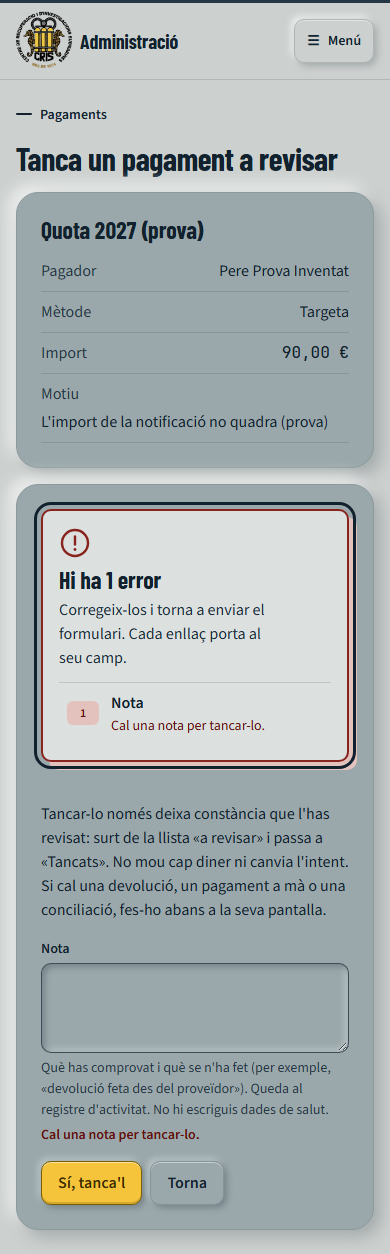
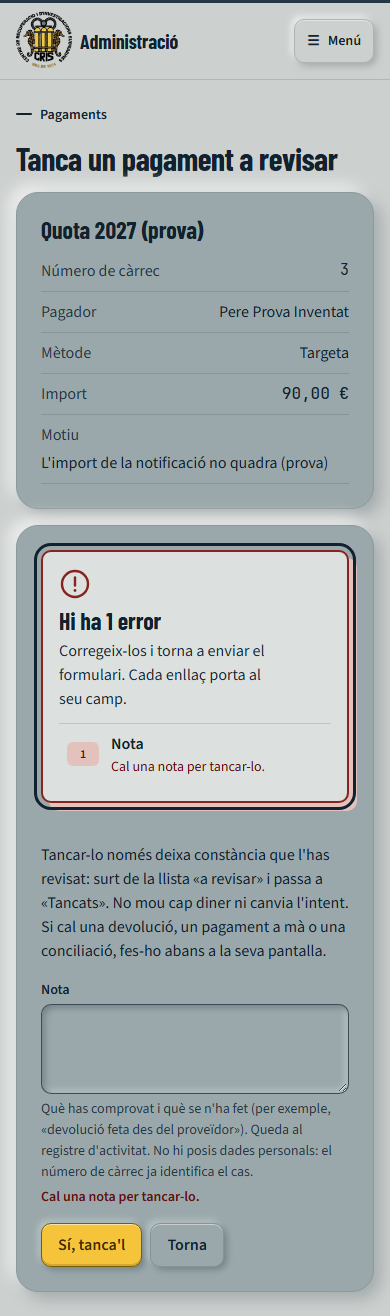
Diari: T-M05b-16b, revisió de la PR #221

diff --git a/docs/diari-de-construccio/T-M05b-16b.md b/docs/diari-de-construccio/T-M05b-16b.md
@@ -2,13 +2,13 @@
 
 | Data i hora (Europa/Madrid) | Commit | Proves | CI |
 |---|---|---|---|
-| 18/11/2026 | ea7a4335 | 9 noves (19 casos) i 35 casos a les proves de rutes; 1 e2e | [A comprovar] |
+| 18/11/2026 | ea7a4335, 22c6fe18 | 14 noves (25 casos) i 35 casos a les proves de rutes; 1 e2e | [A comprovar] |
 
 **En tres línies:** la llista «a revisar» del tresorer només es podia mirar. Ara cada intent «a revisar» té un botó «Tanca» que porta a una confirmació amb una nota obligatòria. Tancar-lo no mou cap diner ni canvia l'intent: deixa constància de la revisió, i l'intent passa a «Tancats».
 
 ## Què s'ha fet
-- `ReviewClosure` (migració `payments/0022`): una fila per intent tancat, amb la nota, qui i quan. Només INSERT, també amb SQL directe (com les anul·lacions de rebut).
-- `apps/payments/reviews.py`, `close`: comprova B6 amb edició, la nota, que l'intent sigui «a revisar» i que no estigui tancat (amb l'intent bloquejat), i desa la fila i el registre `payments.review_closed` amb la nota.
+- `ReviewClosure` (migració `payments/0022`): una fila per intent tancat, amb qui i quan. Només INSERT, també amb SQL directe (com les anul·lacions de rebut). La nota no hi és: va al registre d'activitat (vegeu «Revisió de la PR»).
+- `apps/payments/reviews.py`, `close`: comprova B6 amb edició, la nota (obligatòria i de 500 caràcters com a molt), que l'intent sigui «a revisar» i que no estigui tancat (amb l'intent bloquejat), i desa la fila i el registre `payments.review_closed` amb la nota.
 - `/gestio/pagaments/revisar/<intent>/tanca/`: pàgina de confirmació amb el càrrec, el mètode, l'import i el motiu; POST amb CSRF. La llista oberta ja no mostra els tancats; «Tancats» en mostra els 50 més recents amb la nota i qui l'ha tancat, i «Tots els intents» diu «A revisar (tancat)».
 - La línia de la [guia de cobraments](../guies/guia-cobraments.md#1-pagaments-i-a-revisar), la fila de l'estat i la fila de la P-82 amb el que s'ha construït.
 
@@ -18,11 +18,13 @@
 - **Permís B6 amb edició**, el de la llista. Dubte nou: [P-377](../decisions/pendents.md).
 - **Només intents.** Les notificacions sense intent es queden a la llista ([P-378](../decisions/pendents.md)); les transferències sense rebut ja en surten soles; les liquidacions són de la 04 (P-191).
 
+- **Revisió de la PR #221:** (1) una nota de text lliure en una taula només INSERT no es podria anonimitzar: la taula guarda només qui i quan, i la nota va a l'entrada del registre, sobre el tancament, que l'esborrat RGPD del pagador substitueix per la referència (`payments.privacy.audit_targets`); «Tancats» la llegeix d'allà. (2) A «Tancats», la nota només la veu qui té P4 o pot tancar; la resta, «—»; l'ajuda demana no posar-hi dades personals i la confirmació mostra el número de càrrec. (3) El títol de «Tancats» dona el total real. (4) El límit de 500 caràcters també és al servei. (5) Una sola comprovació de «ja tancat», la del servei.
+
 ## Problemes trobats
 - Cap.
 
 ## Com se sap que funciona
-`apps/payments/tests/test_review_close.py`: la cel·la de cada rol (200 o «no trobat», a la pàgina i al POST), el servei sense permís, la nota buida, que surt de la llista oberta i entra a «Tancats» sense cap pagament nou ni canvi del càrrec, el segon tancament rebutjat, només un intent «a revisar», el registre amb la nota i que la fila no es pot modificar ni esborrar. `test_route_permissions.py` declara la ruta i el servei. Al navegador, `test_pagaments_llistat.py`: el tresorer prem «Tanca», veu l'error sense nota, tanca amb la nota i el troba a «Tancats», a 1280, 390 i 320 px.
+`apps/payments/tests/test_review_close.py`: l'esborrat del pagador no deixa la nota enlloc, la nota visible per rol (amb P4 o edició, sí; sense cap dels dos, «—», simulat perquè B6 avui només admet «tot»), el total de «Tancats», el límit de la nota al servei, la cel·la de cada rol (200 o «no trobat», a la pàgina i al POST), el servei sense permís, la nota buida, que surt de la llista oberta i entra a «Tancats» sense cap pagament nou ni canvi del càrrec, el segon tancament rebutjat, només un intent «a revisar», el registre amb la nota i que la fila no es pot modificar ni esborrar. `test_route_permissions.py` declara la ruta i el servei. Al navegador, `test_pagaments_llistat.py`: el tresorer prem «Tanca», veu l'error sense nota, tanca amb la nota i el troba a «Tancats», a 1280, 390 i 320 px.
 
 ![Tancats, a 1280 px](captures/2026-11-18_1130_T-M05b-16b_tancats-1280.png)
 ![Confirmació sense nota, a 390 px](captures/2026-11-18_1130_T-M05b-16b_confirmacio-390.png)

diff --git a/docs/diari-de-construccio/README.md b/docs/diari-de-construccio/README.md
@@ -291,3 +291,4 @@ Peces que no són tasques del pla però que fan servir les entrades (per exemple
 | [P-291](P-291.md) | Codis de retorn i l'acció de cada un com a ajustos que edita el Tresorer (payments/0021; 095, provisional fins que ho confirmi el banc) | 18/11/2026 | 4898c0b8 | 9 noves (15 casos); 1 e2e | [A comprovar] |
 | [T-M00-08a](T-M00-08a.md) | Textos dels correus editables des de l'app, part a: baixa i recordatoris de quota com a ajustos de text (core/0047), amb vista prèvia, historial i text per defecte; dubtes P-380 a P-382; revisió de la PR #222 | 18/11/2026 | PR #222 | 33 noves; 1 e2e | [A comprovar] |
 | [T-M05b-16b](T-M05b-16b.md) | Tancar un pagament «a revisar» des de la pantalla amb una nota, sense moure diners (payments/0022; P-82, opció per defecte; dubtes P-377 i P-378) | 18/11/2026 | ea7a4335 | 9 noves (19 casos); 1 e2e | [A comprovar] |
+| [T-M05b-16b](T-M05b-16b.md) | Tancar un pagament «a revisar» des de la pantalla amb una nota, sense moure diners (payments/0022; P-82, opció per defecte; dubtes P-377 i P-378) | 18/11/2026 | ea7a4335, 22c6fe18 | 14 noves (25 casos); 1 e2e | [A comprovar] |
